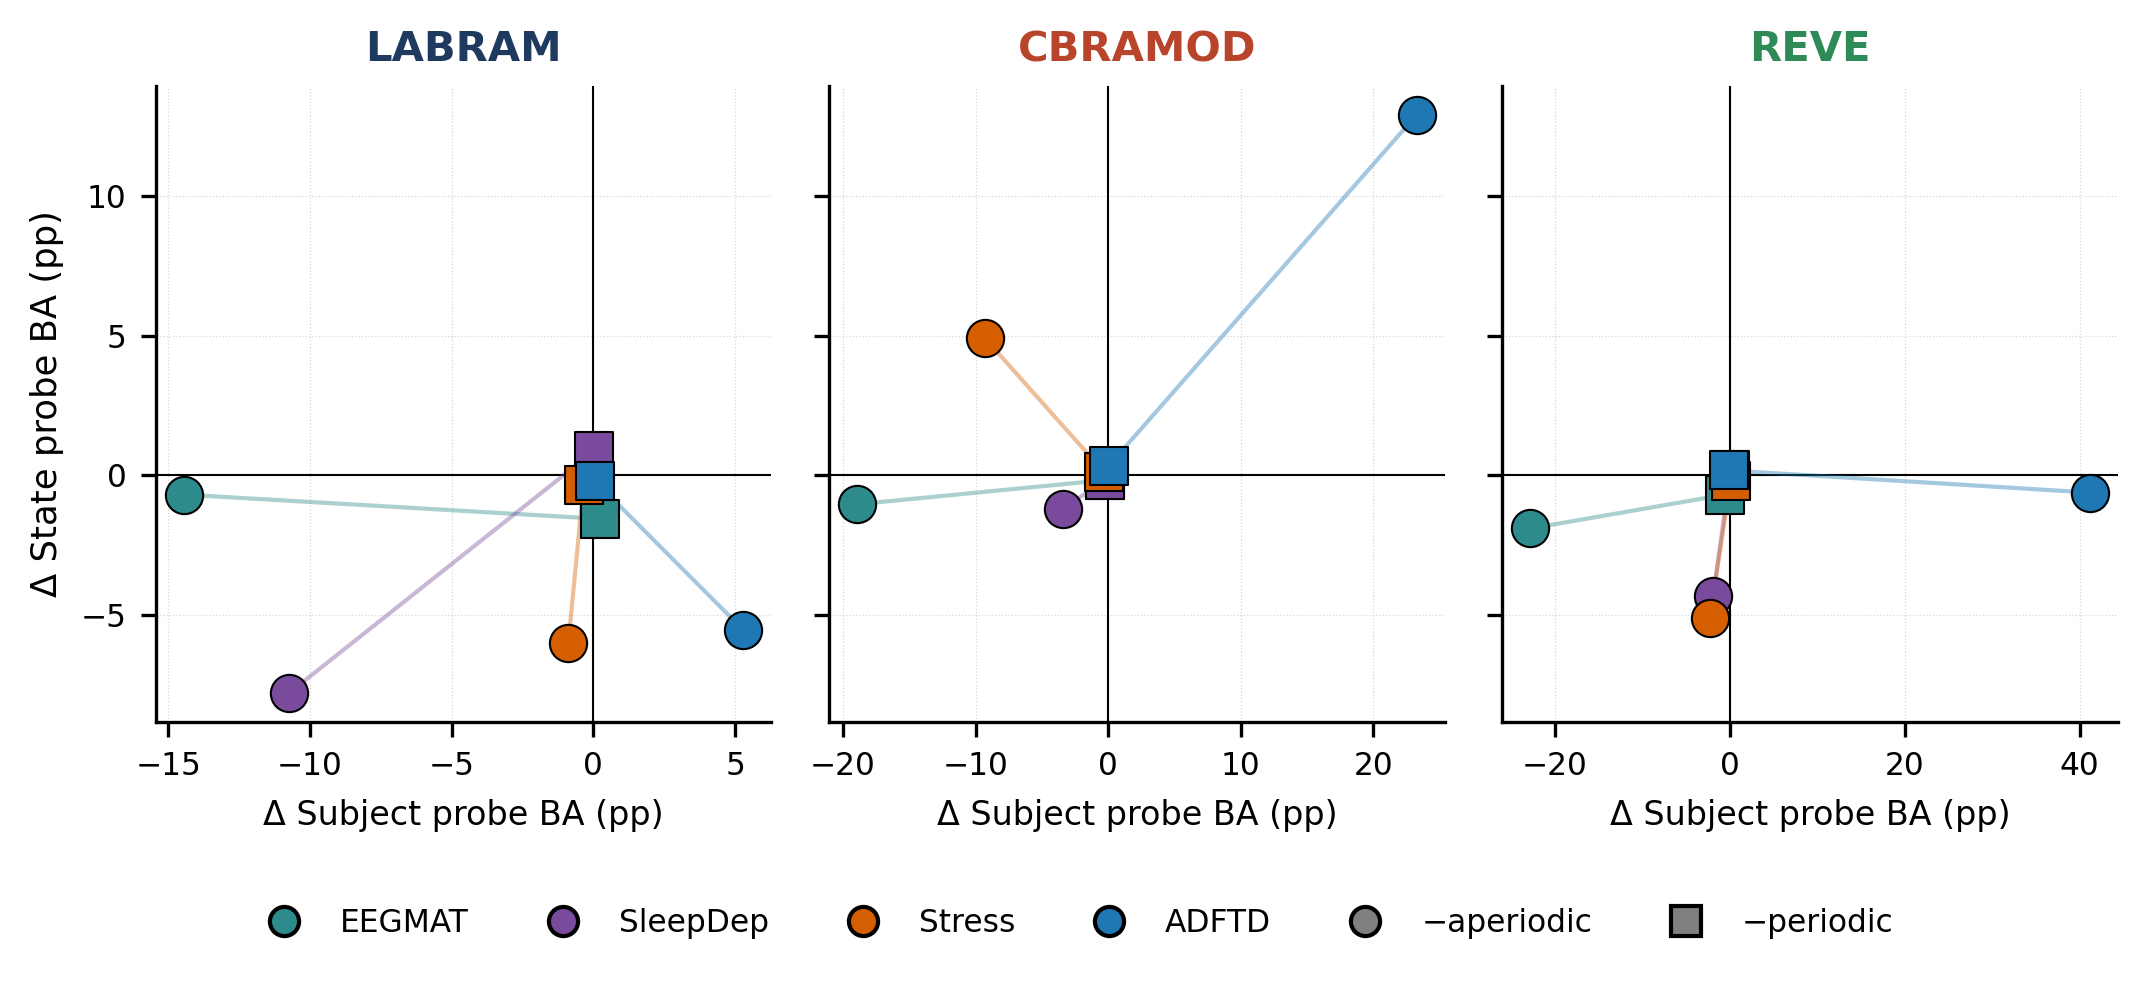
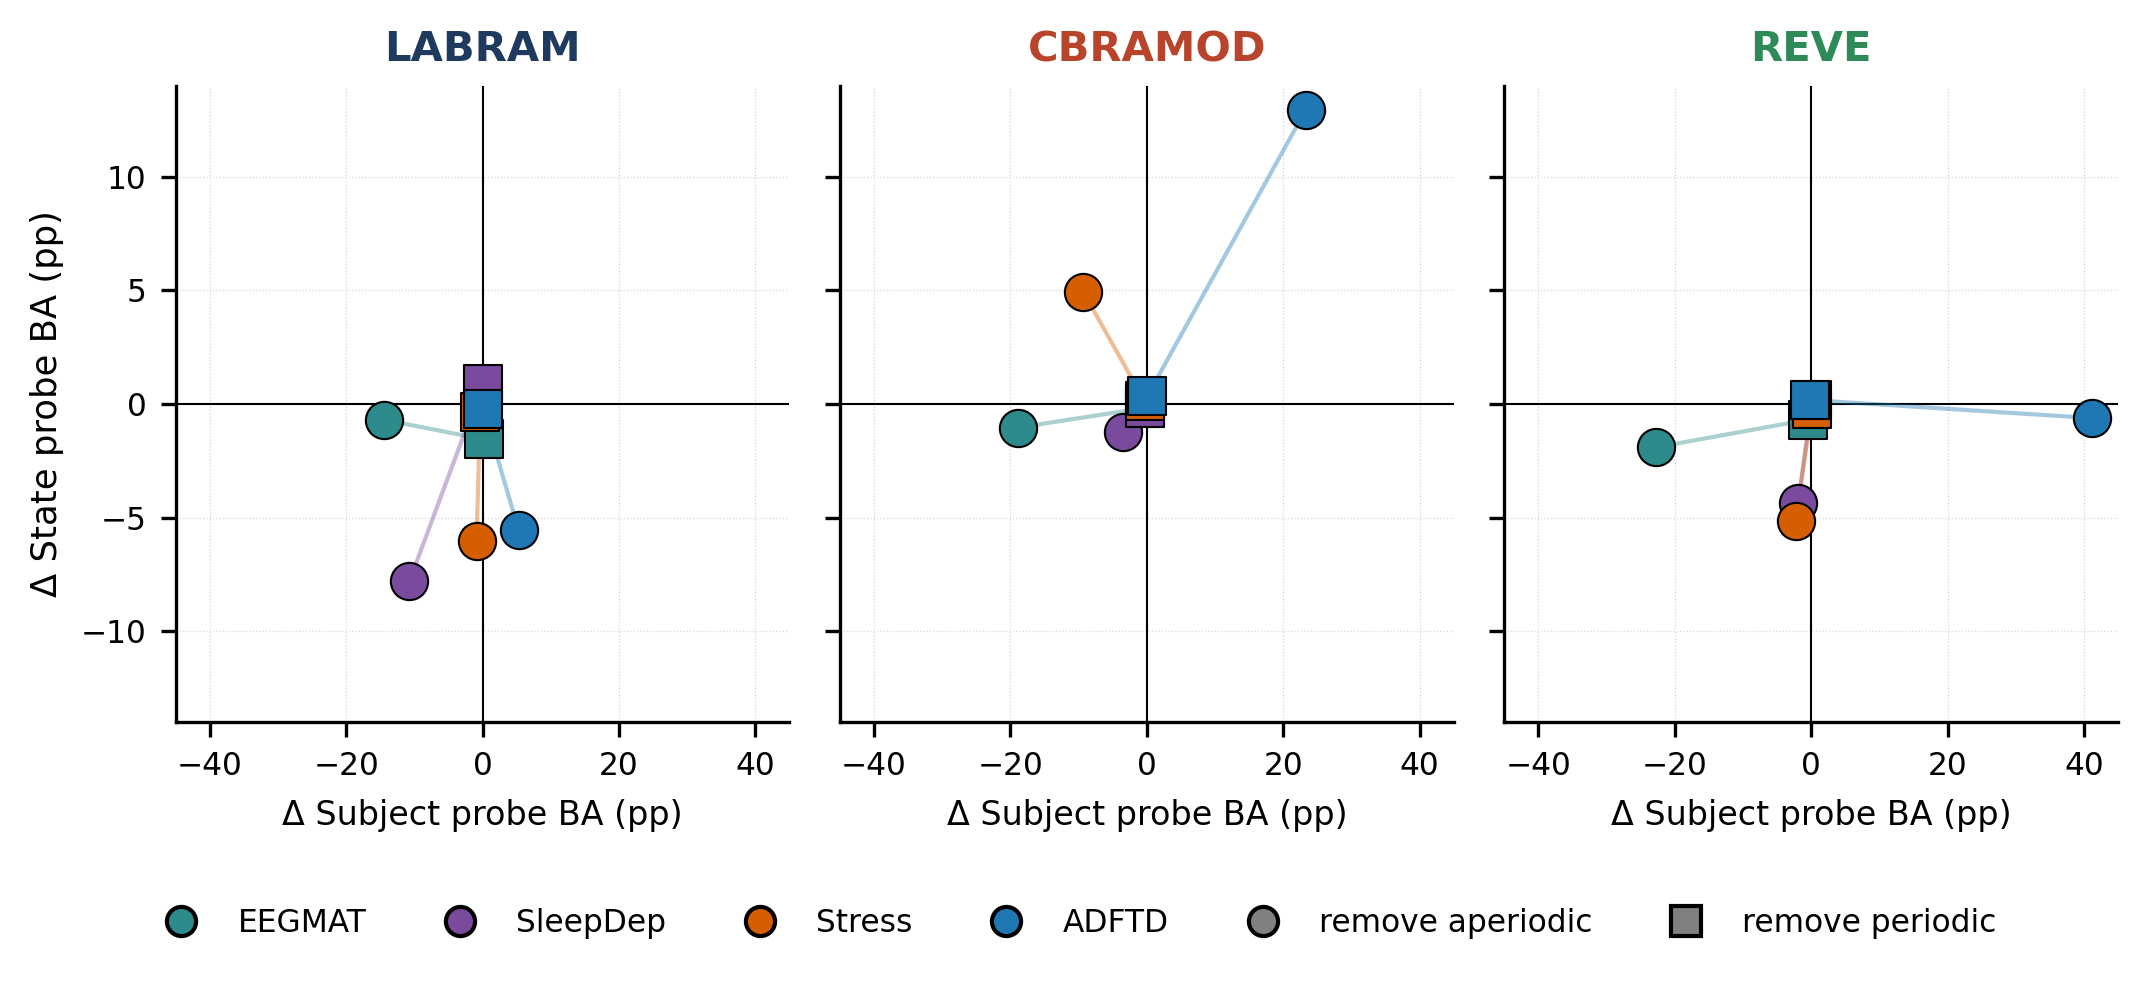
fix(fig5b): unify panel scales + relabel conditions as 'remove aperiodic/periodic'
Scale unification
- All 3 FM panels now share xlim = [-45, 45] with major ticks {-40, -20, 0, 20, 40}
  and ylim = [-14, 14] with major ticks {-10, -5, 0, 5, 10}
- sharex=True, sharey=True
- Makes within-panel point positions directly comparable across FMs without
  re-reading the axes

Label clarity
- 'remove aperiodic' / 'remove periodic' in legend (previously '−aperiodic'/
  '−periodic', where the minus glyph could be read as subtraction / negative
  sign rather than the experimental condition)

diff --git a/notebooks/_build_figures_consolidated.py b/notebooks/_build_figures_consolidated.py
@@ -344,9 +344,10 @@ save(fig, 'fig5a_psd_fooof_fit')
 # Per-panel independent x-axis keeps a single cell×cond outlier from squashing others.
 # State probe from FOOOF-ablation JSON; subject probe from new temporal-block protocol.
 FIG5B = r"""# Fig 5b — FOOOF ablation signature per FM (state × subject Δ BA scatter)
-fig, axes = plt.subplots(1, 3, figsize=(W_DOUBLE, W_SINGLE*0.9), sharey=True, sharex=False)
-markers = {'−aperiodic': 'o', '−periodic': 's'}
-COND_MAP = [('aperiodic_removed', '−aperiodic'), ('periodic_removed', '−periodic')]
+fig, axes = plt.subplots(1, 3, figsize=(W_DOUBLE, W_SINGLE*0.9), sharey=True, sharex=True)
+markers = {'remove aperiodic': 'o', 'remove periodic': 's'}
+COND_MAP = [('aperiodic_removed', 'remove aperiodic'),
+            ('periodic_removed',  'remove periodic')]
 
 for ax, fm in zip(axes, FMS):
     ax.axhline(0, color='k', lw=0.5)
@@ -369,15 +370,19 @@ for ax, fm in zip(axes, FMS):
     ax.set_xlabel('Δ Subject probe BA (pp)', fontsize=8)
     ax.tick_params(labelsize=7.5)
     ax.grid(True, ls=':', lw=0.3, alpha=0.5)
+    ax.set_xticks([-40, -20, 0, 20, 40])
+    ax.set_yticks([-10, -5, 0, 5, 10])
+    ax.set_xlim(-45, 45)
+    ax.set_ylim(-14, 14)
 
 axes[0].set_ylabel('Δ State probe BA (pp)', fontsize=8.5)
 
 ds_leg = [Line2D([], [], marker='o', ls='', color=DS_CMAP[d], markeredgecolor='k',
                   markersize=7, label=DS_SHORT[d]) for d in DS_PROBE]
 cond_leg = [Line2D([], [], marker='o', ls='', color='gray', markeredgecolor='k',
-                   markersize=7, label='−aperiodic'),
+                   markersize=7, label='remove aperiodic'),
             Line2D([], [], marker='s', ls='', color='gray', markeredgecolor='k',
-                   markersize=7, label='−periodic')]
+                   markersize=7, label='remove periodic')]
 fig.legend(handles=ds_leg + cond_leg, loc='lower center', ncol=6, fontsize=7.5,
            frameon=False, bbox_to_anchor=(0.5, -0.03))
 
